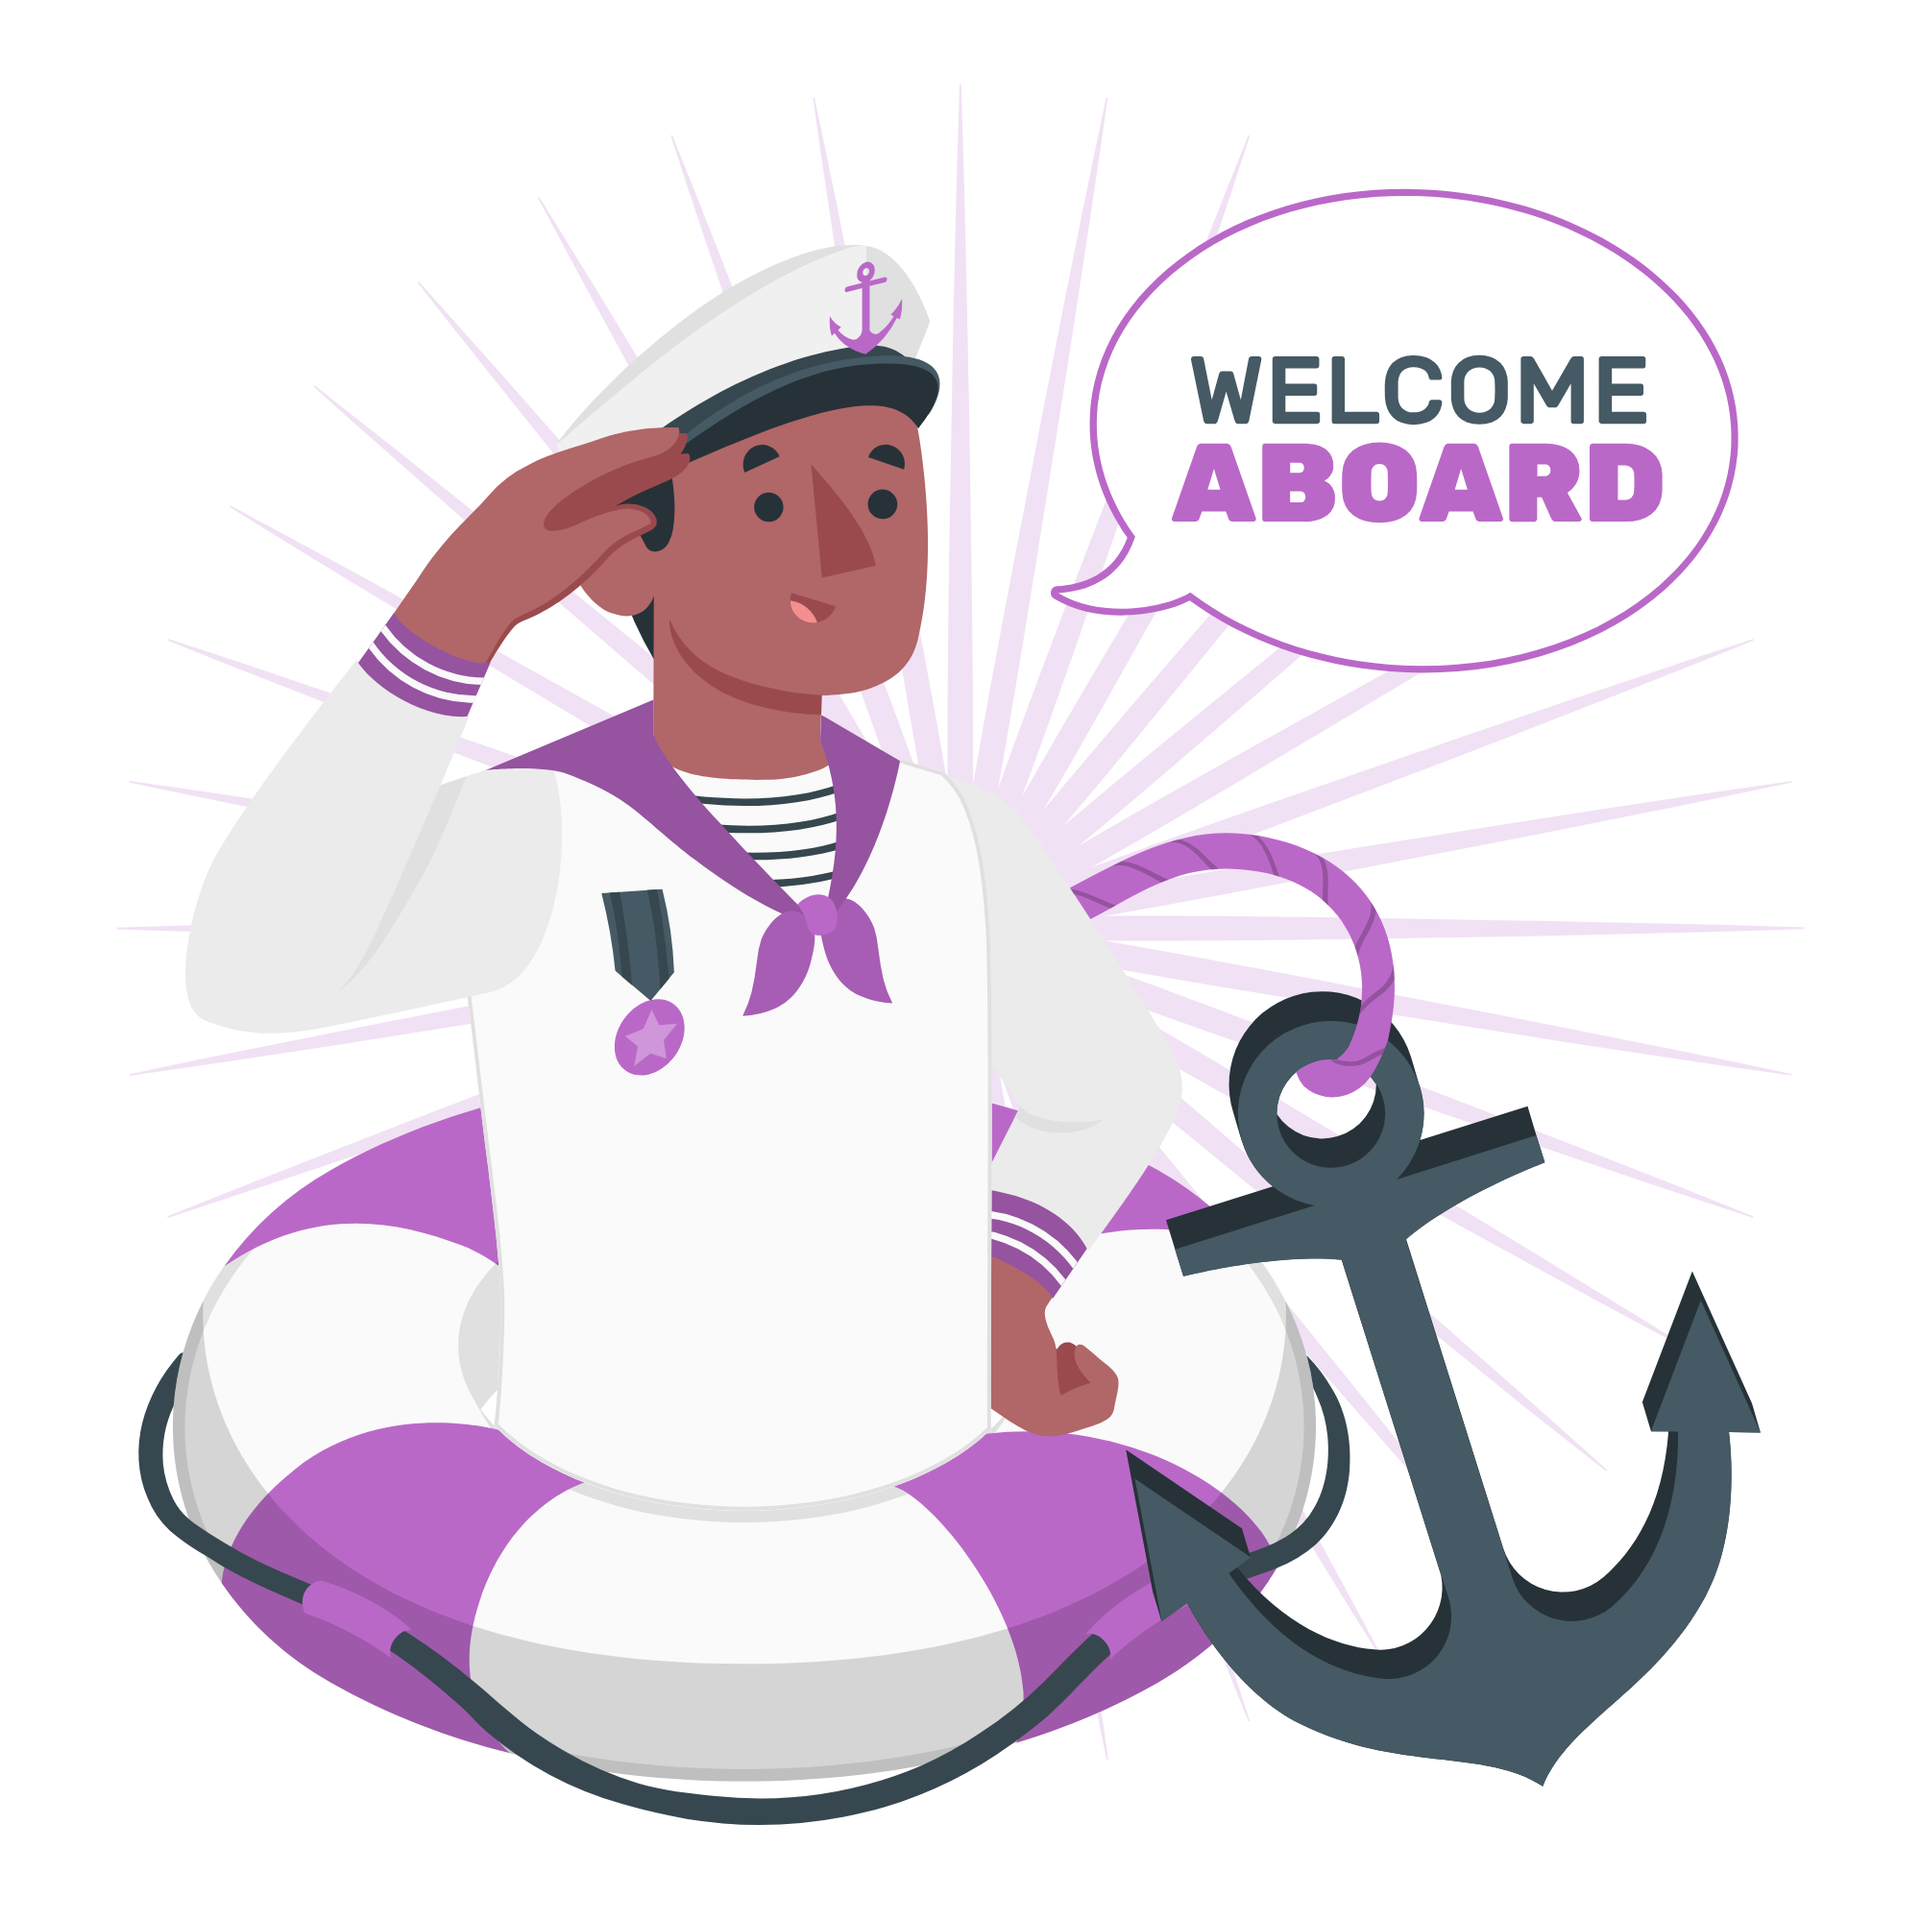
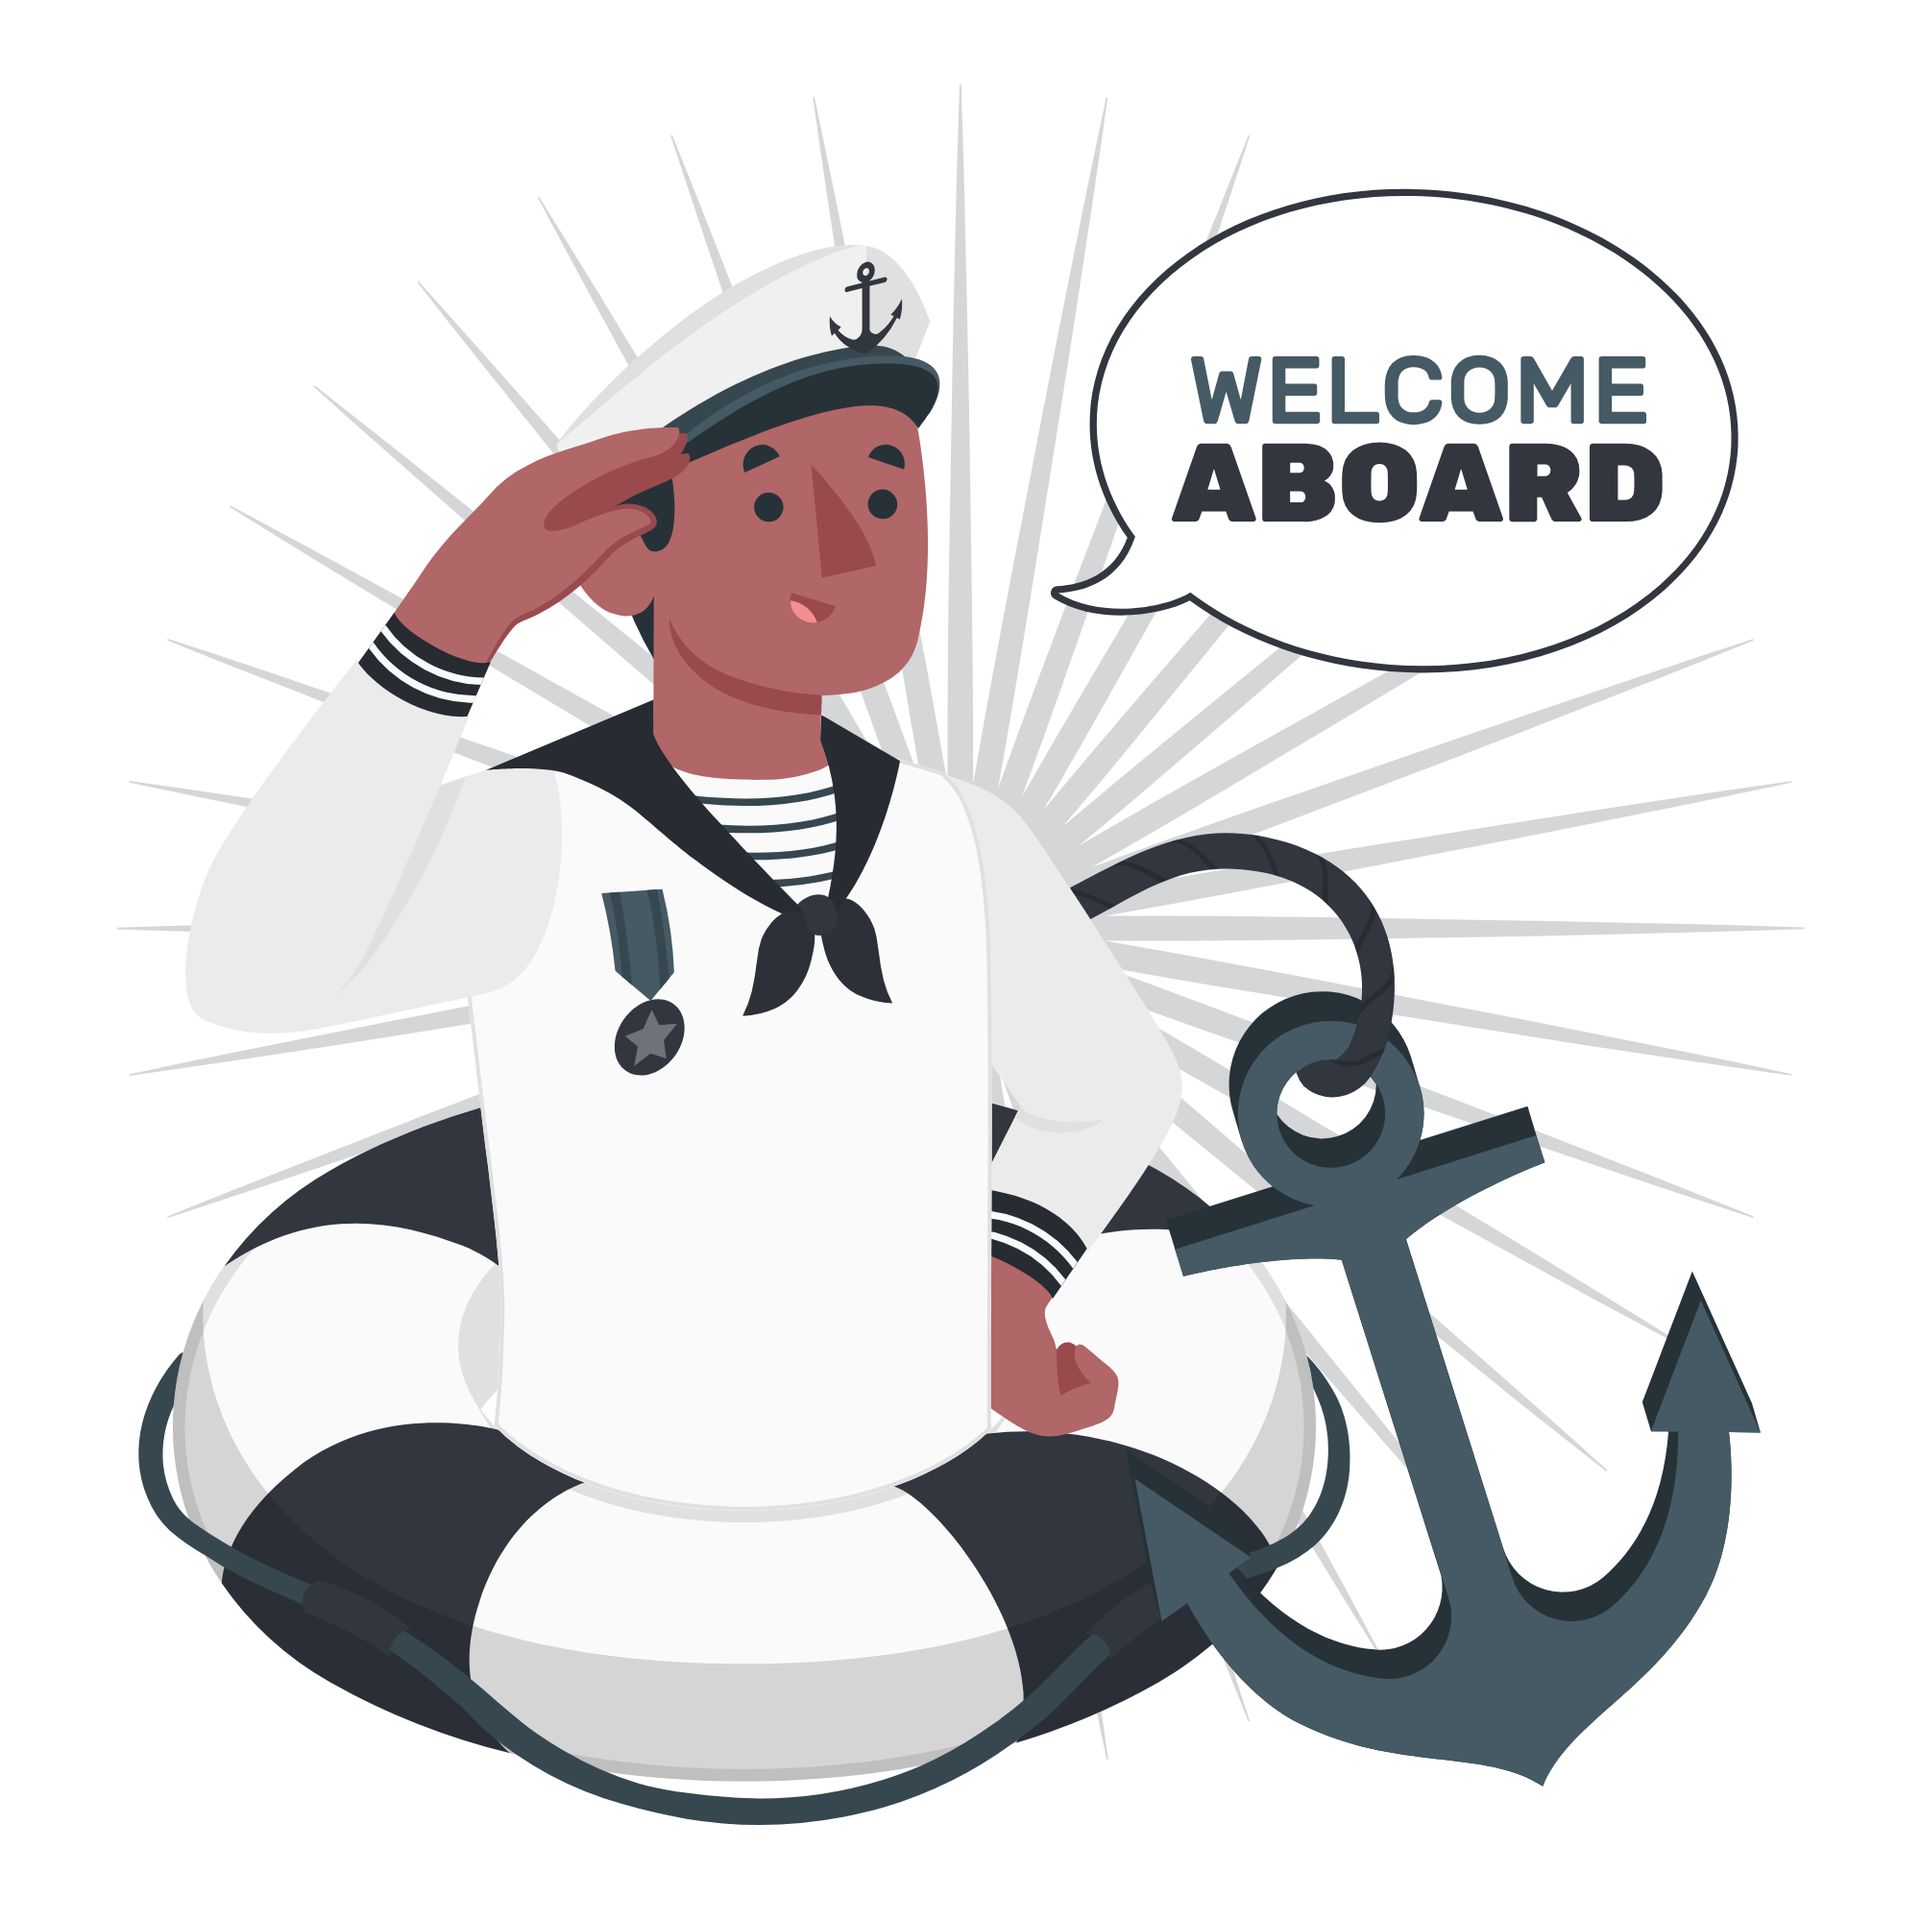
Erros da página Add corrigidos, adicionar, listar e excluir funcionam. Remodelagem na cor do app

diff --git a/src/app/(tabs)/add.tsx b/src/app/(tabs)/add.tsx
@@ -1,4 +1,4 @@
-import { StyleSheet, Text, View, Keyboard, TextInput, ScrollView } from 'react-native'
+import { StyleSheet, Text, View, TextInput, ScrollView, Keyboard, Alert } from 'react-native'
 
 import AsyncStorage from '@react-native-async-storage/async-storage'
 
@@ -6,120 +6,141 @@ import React from 'react'
 import { useState } from 'react'
 import { useEffect } from 'react'
 import { Button } from '../../components/Button'
-import  Products   from '../../components/Products'
+import Products from '../../components/Products'
+
+interface Item {
+  nome: string;
+  preco: string
+}
 
 export default function Add() {
 
-  const [nomeItem, setNomeItem] = useState('')
-  const [precoItem, setPrecoItem] = useState('')
-  const [listItems, setListItems] = useState([])
+    const [nomeItem, setNomeItem] = useState('')
+    const [precoItem, setPrecoItem] = useState('')
+    const [listItems, setListItems] = useState<Item[]>([])
 
-  useEffect(() => {
+    useEffect(() => {
+      listarItems()
+    }, [])
 
-  }, [])
+    async function salvarItem() {
+      if (!nomeItem || !precoItem) {
+        Alert.alert('Erro', 'Preencha todas as informações!')
+        return;
+      }
+      const result = await AsyncStorage.getItem('ITEMS');
+      const items = result ? JSON.parse(result) : [];
 
-  async function salvarItem() {
-    let items = []
-    items = JSON.parse(await AsyncStorage.getItem('ITEMS'))
+      items.push({ nome: nomeItem, preco: precoItem });
+      await AsyncStorage.setItem('ITEMS', JSON.stringify(items));
 
-    items.push({ nome: nomeItem, preco: precoItem })
+      listarItems();
 
-    listarItems()
+      setNomeItem('');
+      setPrecoItem('');
 
-    Keyboard.dismiss()
-  }
+      Keyboard.dismiss()
+    }
 
-  async function listarItems() {
-    const i = await AsyncStorage.getItem('ITEMS')
-    setListItems(JSON.parse(i))
-  }
+    async function listarItems() {
+      const result = await AsyncStorage.getItem('ITEMS');
+      const items = result ? JSON.parse(result) : [];
+      setListItems(items);
+    }
 
-  async function excluirItem(index) {
-    const tempData = listItems
-    const itemsSelecionados = tempData.filter((item, ind) => {
-      return ind != index
-    })
+    async function excluirItem(index: number) {
+      const itemsAtualizados = [...listItems];
+      itemsAtualizados.splice(index, 1);
 
-    setListItems(itemsSelecionados)
-    await AsyncStorage.setItem('ITEMS', JSON.stringify(itemsSelecionados))
+      setListItems(itemsAtualizados);
+      await AsyncStorage.setItem('ITEMS', JSON.stringify(itemsAtualizados));
+    }
 
-  }
+    return (
+      <View style={styles.container} >
+        <Text style={styles.title} >Lista de Compras</Text>
 
-  return (
-    <View style={styles.container} >
-      <Text style={styles.title} >Lista de Compras</Text>
-
-      <TextInput
-        placeholder="Nome do Item"
-        value={nomeItem}
-        onChangeText={(value) => setNomeItem(value)}
-        style={styles.txtInput}
-      />
-      <TextInput
-        placeholder="Preço do Item"
-        value={precoItem}
-        onChangeText={(value) => setPrecoItem(value)}
-        style={styles.txtInput}
-      />
-
-      <Button title="Adicionar" onPress={salvarItem} />
-
-      <View style={styles.header} >
-        <Text style={styles.headerTitle} >Itens</Text>
-      </View>
-
-      <ScrollView>
-        <Products 
-        name={nomeItem}
-        preco={precoItem}
-        
+        <TextInput
+          placeholder="Nome do Item"
+          placeholderTextColor={"#EEEEEE"}
+          value={nomeItem}
+          onChangeText={(value) => setNomeItem(value)}
+          blurOnSubmit={true}
+          style={styles.txtInput}
         />
-      </ScrollView>
+        <TextInput
+          placeholder="Preço do Item"
+          placeholderTextColor={"#EEEEEE"}
+          value={precoItem}
+          onChangeText={(value) => setPrecoItem(value)}
+          blurOnSubmit={true}
+          style={styles.txtInput}
+        />
 
-    </View>
-  )
-}
+        <Button title="Adicionar" onPress={salvarItem} />
 
-const styles = StyleSheet.create({
-  container: {
-    flex: 1,
-    backgroundColor: "white",
-    paddingHorizontal: 32,
-    gap: 16
-  },
-  title: {
-    fontSize: 22,
-    fontWeight: '700',
-    marginTop: 44,
-    marginBottom: 24
+        <View style={styles.header} >
+          <Text style={styles.headerTitle} >Itens</Text>
+        </View>
 
-  },
-  txtInput: {
-    height: 56,
-    width: '100%',
-    borderRadius: 7,
-    borderWidth: 2,
-    padding: 16,
-    fontSize: 16,
-    borderColor: "#BA68C8",
-  },
-  items: {
-    gap: 12,
-  },
-  scroll: {
-    borderTopWidth: 1,
-    borderTopColor: "#999",
-    paddingTop: 24,
-  },
-  header: {
-    marginTop: 32,
-    width: '100%',
-    flexDirection: 'row',
-    justifyContent: 'space-between',
-    alignItems: 'center'
-  },
-  headerTitle: {
-    fontSize: 16,
-    fontWeight: '500'
+        <ScrollView style={styles.scroll} contentContainerStyle={styles.items} showsVerticalScrollIndicator={false} >
+          {listItems.map((item, index) => (
+            <Products
+              key={index}
+              nomeItem={item.nome}
+              precoItem={item.preco}
+              excluirItem={() => excluirItem(index)}
+            />
+          ))}
+        </ScrollView>
+
+      </View>
+    )
   }
-})
+
+  const styles = StyleSheet.create({
+    container: {
+      flex: 1,
+      backgroundColor: "#222831",
+      paddingHorizontal: 32,
+      gap: 16
+    },
+    title: {
+      fontSize: 22,
+      fontWeight: '700',
+      marginTop: 44,
+      marginBottom: 24,
+      color: "#EEEEEE"
+    },
+    txtInput: {
+      height: 56,
+      width: '100%',
+      borderRadius: 7,
+      borderWidth: 2,
+      padding: 16,
+      fontSize: 16,
+      borderColor: "#31363F",
+      color: "#EEEEEE"
+    },
+    items: {
+      gap: 12,
+    },
+    scroll: {
+      borderTopWidth: 1,
+      borderTopColor: "#76ABAE",
+      paddingTop: 24,
+
+    },
+    header: {
+      marginTop: 32,
+      width: '100%',
+      flexDirection: 'row',
+      justifyContent: 'space-between',
+      alignItems: 'center'
+    },
+    headerTitle: {
+      fontSize: 16,
+      fontWeight: '500',
+      color: "white"
+    }
+  })

diff --git a/src/app/(tabs)/_layout.tsx b/src/app/(tabs)/_layout.tsx
@@ -16,21 +16,27 @@ export default function TabsLayout() {
     }
 
     return (
-        <Tabs screenOptions={{headerShown:false}} >
+        <Tabs screenOptions={{headerShown:false}}>
             <Tabs.Screen name="index" options={{
                 headerTitle: "Home",
                 title: "Home",
-                tabBarIcon: ({color})=> <MaterialIcons name="home" size={22} color={color} />
+                tabBarIcon: ({color})=> <MaterialIcons name="home" size={22} color={color} />,
+                tabBarStyle:{backgroundColor: "#222831"},
+                tabBarActiveTintColor: "#EEEEEE"
             }}/>
             <Tabs.Screen name="Add" options={{
                 headerTitle: "Lista de compras",
                 title: "Add",
-                tabBarIcon: ({color})=> <Feather name="plus" size={22} color={color} />
+                tabBarIcon: ({color})=> <Feather name="plus" size={22} color={color} />,
+                tabBarStyle:{backgroundColor: "#222831"},
+                tabBarActiveTintColor: "#EEEEEE"
             }}/>
             <Tabs.Screen name="User" options={{
                 headerTitle: "User Page",
                 title: "User",
-                tabBarIcon: ({color})=> <Feather name="user" size={22} color={color} />
+                tabBarIcon: ({color})=> <Feather name="user" size={22} color={color} />,
+                tabBarStyle:{backgroundColor: "#222831"},
+                tabBarActiveTintColor: "#EEEEEE"
             }}/>
 
         </Tabs>

diff --git a/src/components/Products.tsx b/src/components/Products.tsx
@@ -4,7 +4,13 @@ import { Feather, FontAwesome } from "@expo/vector-icons"
 
 import React from 'react'
 
-export default function Products({nomeItem, precoItem, excluirItem}) {
+interface ProductsProps{
+  nomeItem: string;
+  precoItem: string;
+  excluirItem: ()=> void;
+}
+
+export default function Products({nomeItem, precoItem, excluirItem}: ProductsProps) {
     return (
         <View style={styles.container}>
             <View style={styles.content}>
@@ -12,7 +18,7 @@ export default function Products({nomeItem, precoItem, excluirItem}) {
                     {nomeItem}
                 </Text>
                 <Text style={styles.preco}>
-                    <FontAwesome name="dollar" size={16} color="green" /> {precoItem}
+                    <FontAwesome name="dollar" size={16} color="#76ABAE" /> {precoItem}
                 </Text>
             </View>
 
@@ -32,7 +38,7 @@ export const styles = StyleSheet.create({
       width: '100%',
       flexDirection: 'row',
       alignItems: 'center',
-      backgroundColor: "#CECECE",
+      backgroundColor: "#31363F",
       borderRadius: 7,
       padding: 16
     },
@@ -42,10 +48,11 @@ export const styles = StyleSheet.create({
     name: {
       fontSize: 16,
       fontWeight: '500',
-      marginBottom: 5
+      marginBottom: 5,
+      color: "#EEEEEE"
     },
     preco: {
       fontSize: 14,
-      color: "#777",
+      color: "#EEEEEE",
     }
   });

diff --git a/src/app/(tabs)/index.tsx b/src/app/(tabs)/index.tsx
@@ -3,9 +3,12 @@ import React from 'react'
 
 import { Link } from 'expo-router'
 
+import { StatusBar } from 'expo-status-bar'
+
 export default function Home() {
   return (
     <SafeAreaView style={styles.container} >
+      <StatusBar style="light" />
       <Image source={require("../../assets/Welcome.png")} style={styles.imgHome} />
       <View style={styles.txtContainer} >
         <Text style={styles.txtTitle} >Seja bem-vindo!</Text>
@@ -29,7 +32,7 @@ const styles = StyleSheet.create({
     flex: 1,
     alignItems: "center",
     justifyContent: "center",
-    backgroundColor: "white"
+    backgroundColor: "#222831"
   },
   txtContainer: {
     marginTop: 20,
@@ -45,16 +48,18 @@ const styles = StyleSheet.create({
   txtTitle: {
     fontSize: 24,
     fontFamily: "Inter_700Bold",
-    marginBottom: 10
+    marginBottom: 10,
+    color: "#EEEEEE"
   },
   txt: {
     fontSize: 16,
     fontFamily: "Inter_400Regular",
     textAlign: "center",
-    width: "85%"
+    width: "85%",
+    color: "#EEEEEE"
   },
   pressable: {
-    backgroundColor: '#BA68C8',
+    backgroundColor: '#31363F',
     padding: 10,
     borderRadius: 5,
     marginTop: 20,
@@ -66,6 +71,6 @@ const styles = StyleSheet.create({
     textAlign: "center",
     fontWeight: "bold",
     fontSize: 14,
-    fontFamily: "Inter_400Regular"
+    fontFamily: "Inter_400Regular",
   }
 })

diff --git a/src/components/Button.tsx b/src/components/Button.tsx
@@ -20,12 +20,12 @@ export const styles = StyleSheet.create({
     height: 56,
     width: '100%',
     borderRadius: 7,
-    backgroundColor: "#BA68C8",
+    backgroundColor: "#31363F",
     justifyContent: 'center',
     alignItems: 'center'
   },
   title: {
     fontSize: 16,
-    color: "#FFF"
+    color: "#EEEEEE"
   }
 });

diff --git a/src/app/(tabs)/user.tsx b/src/app/(tabs)/user.tsx
@@ -14,6 +14,6 @@ const styles = StyleSheet.create({
     flex: 1,
     alignItems: "center",
     justifyContent: "center",
-    backgroundColor: "white"
+    backgroundColor: "#222831"
   }
 })
